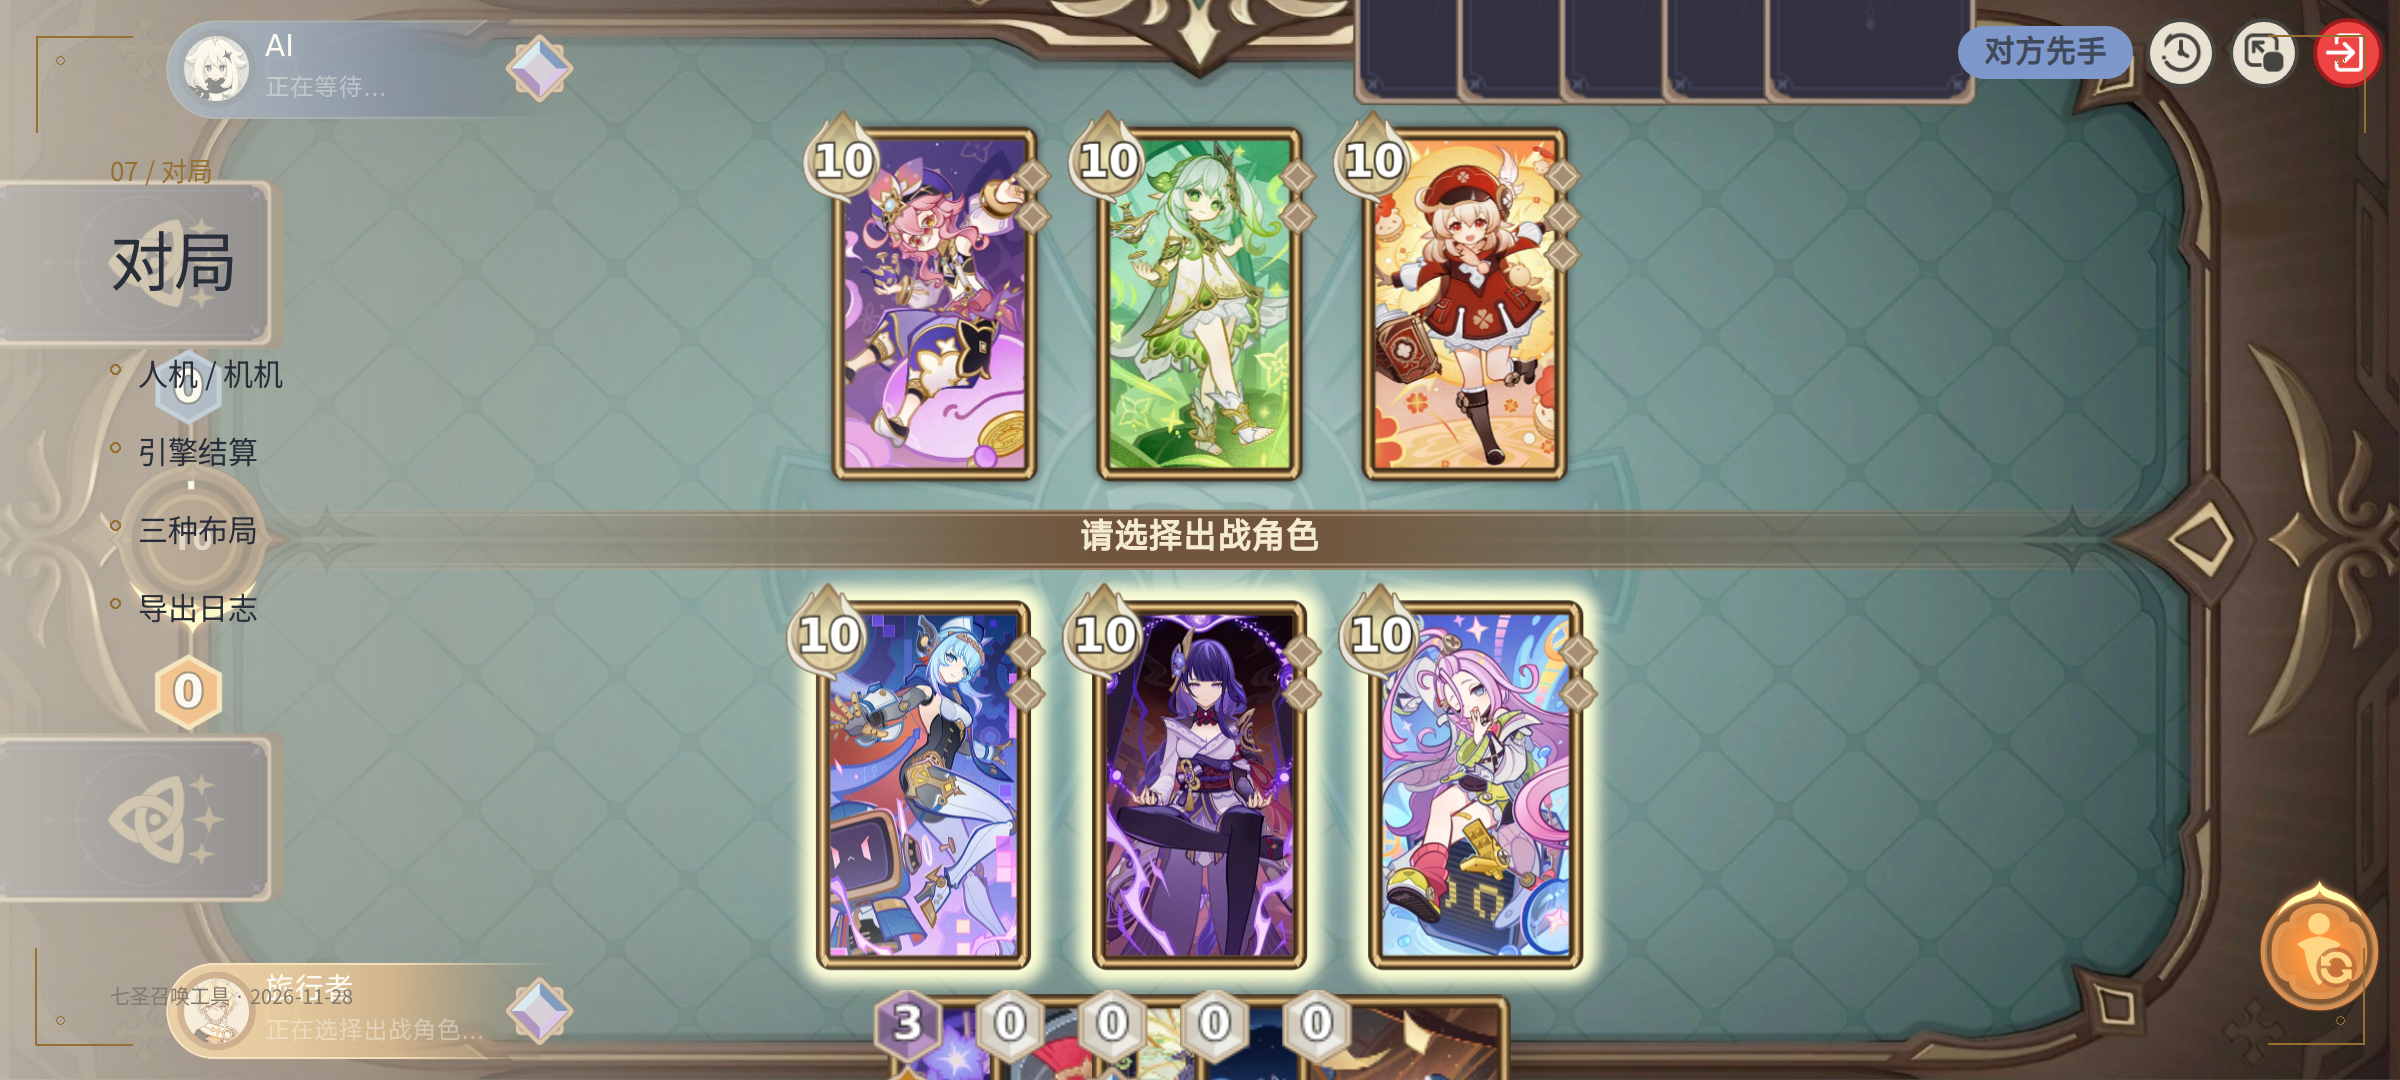
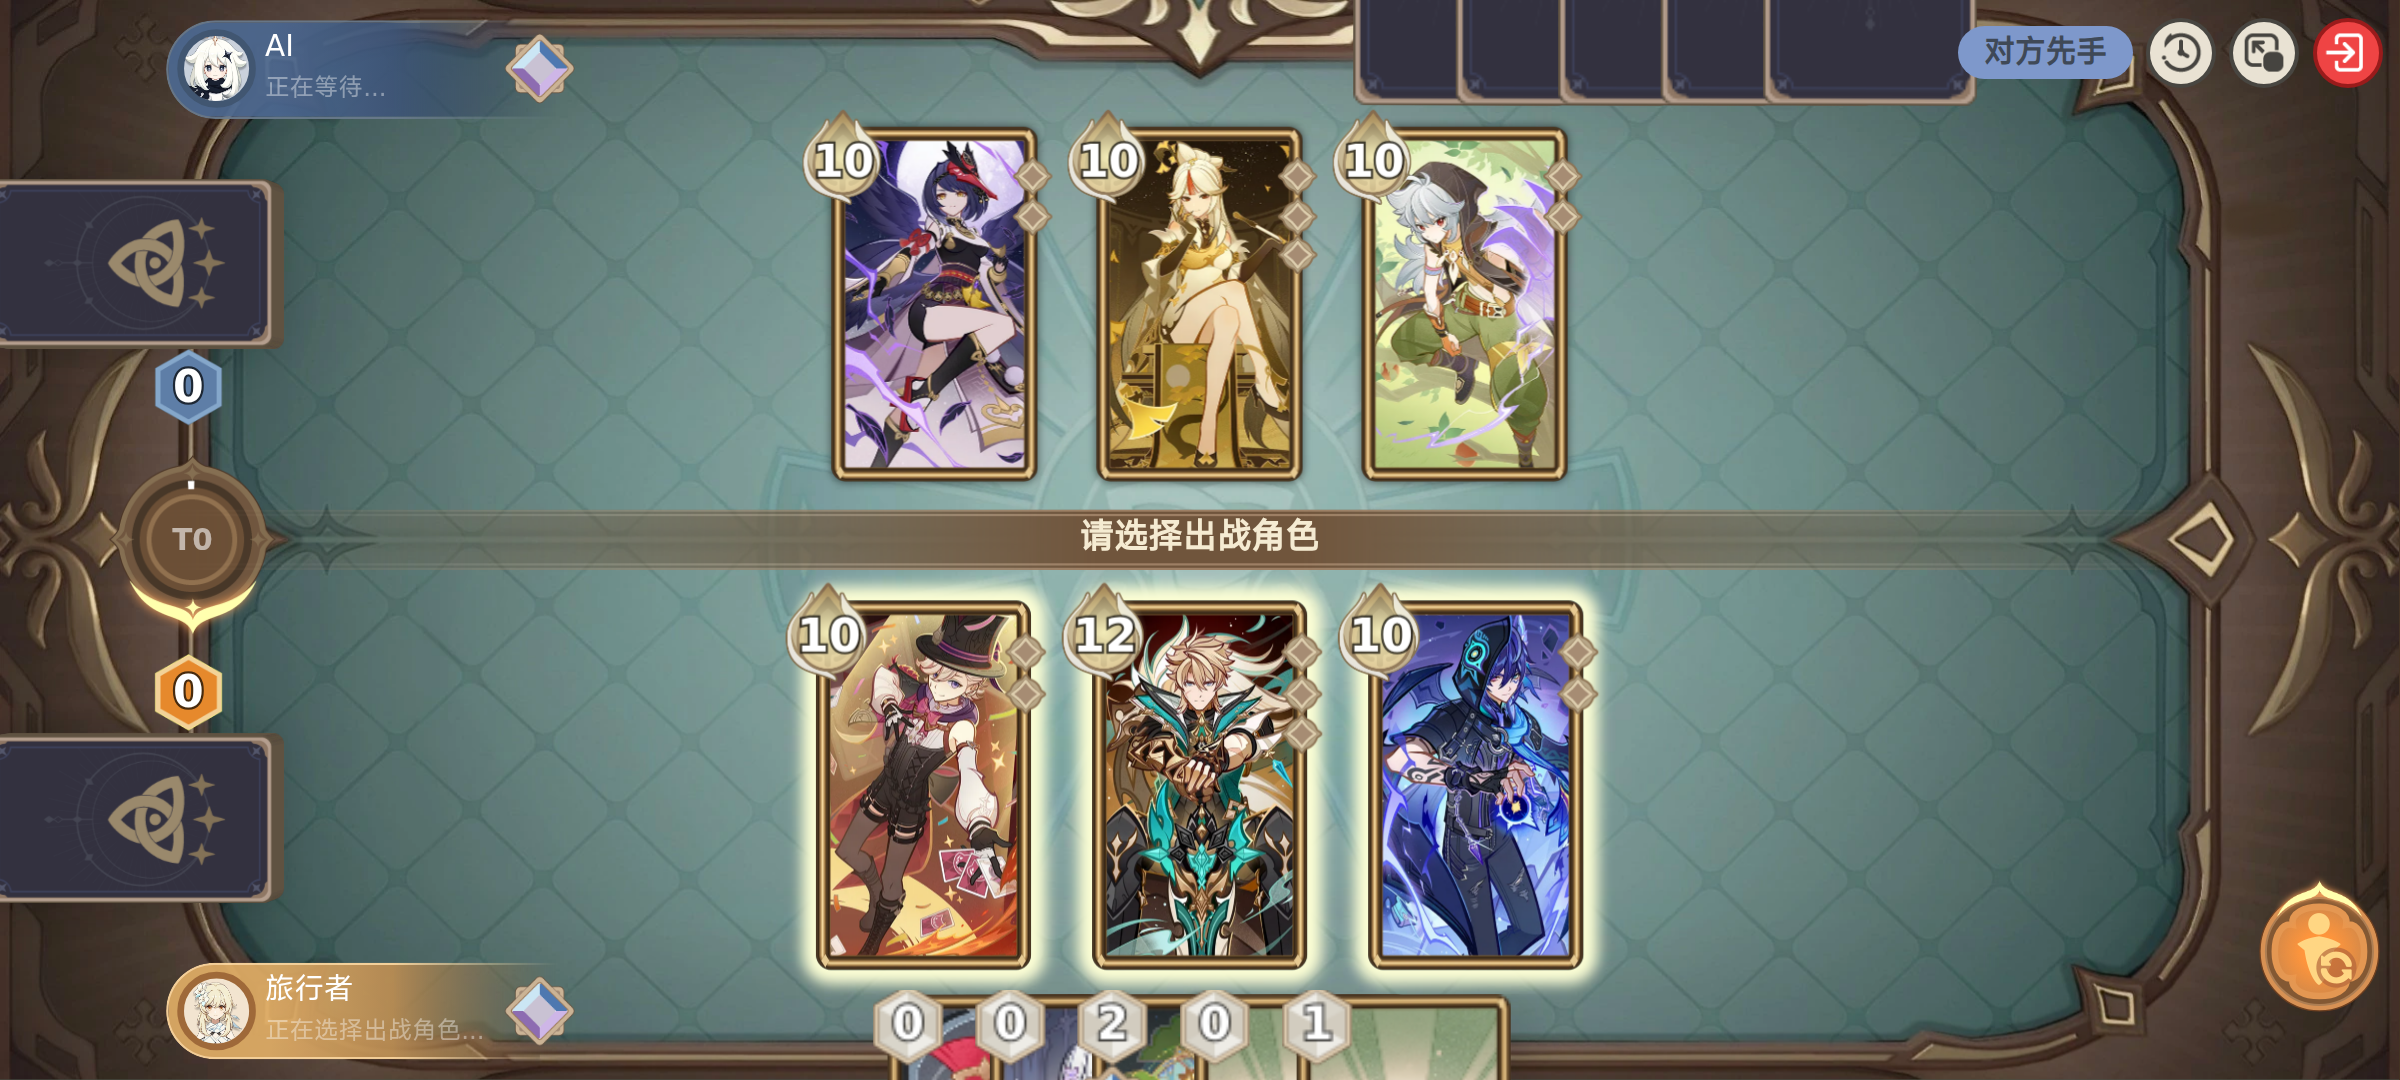
docs(screenshots): 改为工具界面 2400×1080 实拍（无合成文字）

diff --git a/README.md b/README.md
@@ -81,7 +81,7 @@
 
 ## 三、界面预览
 
-> 全部截图按 **2400×1080（20:9）** 重新渲染：竖屏页面配文字说明，对局页为完整横屏画面。
+> 全部截图均为 **2400×1080（20:9）** 的工具界面实拍。
 
 <table>
 <tr>
